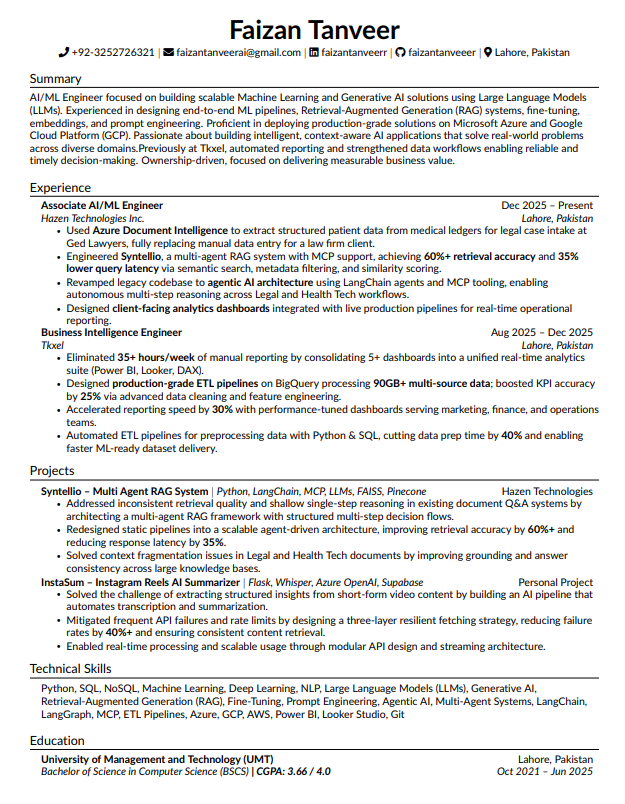
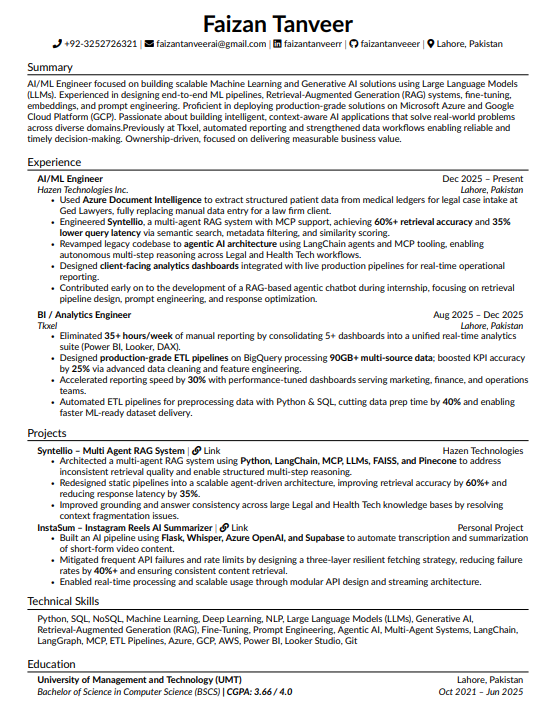
project links added

diff --git a/resume.tex b/resume.tex
@@ -32,8 +32,8 @@
 \addtolength{\oddsidemargin}{-0.5in}
 \addtolength{\evensidemargin}{-0.5in}
 \addtolength{\textwidth}{1in}
-\addtolength{\topmargin}{-.5in}
-\addtolength{\textheight}{1.0in}
+\addtolength{\topmargin}{-.7in}
+\addtolength{\textheight}{1.22in}
 
 \urlstyle{same}
 \raggedbottom
@@ -108,17 +108,18 @@ AI/ML Engineer focused on building scalable Machine Learning and Generative AI s
   \resumeSubHeadingListStart
 
     \resumeSubheading
-      {Associate AI/ML Engineer}{Dec 2025 -- Present}
-      {Hazen Technologies Inc.}{Lahore, Pakistan}
-      \resumeItemListStart
-        \resumeItem{Used \textbf{Azure Document Intelligence} to extract structured patient data from medical ledgers for legal case intake at Ged Lawyers, fully replacing manual data entry for a law firm client.}
-        \resumeItem{Engineered \textbf{Syntellio}, a multi-agent RAG system with MCP support, achieving \textbf{60\%+ retrieval accuracy} and \textbf{35\% lower query latency} via semantic search, metadata filtering, and similarity scoring.}
-        \resumeItem{Revamped legacy codebase to \textbf{agentic AI architecture} using LangChain agents and MCP tooling, enabling autonomous multi-step reasoning across Legal and Health Tech workflows.}
-        \resumeItem{Designed \textbf{client-facing analytics dashboards} integrated with live production pipelines for real-time operational reporting.}
-      \resumeItemListEnd
-
+  {AI/ML Engineer}{Dec 2025 -- Present}
+  {Hazen Technologies Inc.}{Lahore, Pakistan}
+  \resumeItemListStart
+    \resumeItem{Used \textbf{Azure Document Intelligence} to extract structured patient data from medical ledgers for legal case intake at Ged Lawyers, fully replacing manual data entry for a law firm client.}
+    \resumeItem{Engineered \textbf{Syntellio}, a multi-agent RAG system with MCP support, achieving \textbf{60\%+ retrieval accuracy} and \textbf{35\% lower query latency} via semantic search, metadata filtering, and similarity scoring.}
+    \resumeItem{Revamped legacy codebase to \textbf{agentic AI architecture} using LangChain agents and MCP tooling, enabling autonomous multi-step reasoning across Legal and Health Tech workflows.}
+    \resumeItem{Designed \textbf{client-facing analytics dashboards} integrated with live production pipelines for real-time operational reporting.}
+    \resumeItem{Contributed early on to the development of a RAG-based agentic chatbot during internship, focusing on retrieval pipeline design, prompt engineering, and response optimization.}
+  \resumeItemListEnd
+\vspace{6pt}
     \resumeSubheading
-      {Business Intelligence Engineer}{Aug 2025 -- Dec 2025}
+      {BI / Analytics Engineer}{Aug 2025 -- Dec 2025}
       {Tkxel}{Lahore, Pakistan}
       \resumeItemListStart
         \resumeItem{Eliminated \textbf{35+ hours/week} of manual reporting by consolidating 5+ dashboards into a unified real-time analytics suite (Power BI, Looker, DAX).}
@@ -132,19 +133,18 @@ AI/ML Engineer focused on building scalable Machine Learning and Generative AI s
 %-----------PROJECTS-----------
 \section{Projects}
 \resumeSubHeadingListStart
-
 \resumeProjectHeading
-{\textbf{Syntellio~--~Multi Agent RAG System} $|$ \emph{Python, LangChain, MCP, LLMs, FAISS, Pinecone}}{Hazen Technologies}
+{\textbf{Syntellio -- Multi Agent RAG System} $|$ \href{<YOUR_LINK_HERE>}{\faLink\ Link}}{Hazen Technologies}
 \resumeItemListStart
-\resumeItem{Addressed inconsistent retrieval quality and shallow single-step reasoning in existing document Q\&A systems by architecting a multi-agent RAG framework with structured multi-step decision flows.}
+\resumeItem{Architected a multi-agent RAG system using \textbf{Python, LangChain, MCP, LLMs, FAISS, and Pinecone} to address inconsistent retrieval quality and enable structured multi-step reasoning.}
 \resumeItem{Redesigned static pipelines into a scalable agent-driven architecture, improving retrieval accuracy by \textbf{60\%+} and reducing response latency by \textbf{35\%}.}
-\resumeItem{Solved context fragmentation issues in Legal and Health Tech documents by improving grounding and answer consistency across large knowledge bases.}
+\resumeItem{Improved grounding and answer consistency across large Legal and Health Tech knowledge bases by resolving context fragmentation issues.}
 \resumeItemListEnd
 
 \resumeProjectHeading
-{\textbf{InstaSum~--~Instagram Reels AI Summarizer} $|$ \emph{Flask, Whisper, Azure OpenAI, Supabase}}{Personal Project}
+{\textbf{InstaSum -- Instagram Reels AI Summarizer} $|$ \href{https://github.com/faizantanveeer/InstaSum}{\faLink\ Link}}{Personal Project}
 \resumeItemListStart
-\resumeItem{Solved the challenge of extracting structured insights from short-form video content by building an AI pipeline that automates transcription and summarization.}
+\resumeItem{Built an AI pipeline using \textbf{Flask, Whisper, Azure OpenAI, and Supabase} to automate transcription and summarization of short-form video content.}
 \resumeItem{Mitigated frequent API failures and rate limits by designing a three-layer resilient fetching strategy, reducing failure rates by \textbf{40\%+} and ensuring consistent content retrieval.}
 \resumeItem{Enabled real-time processing and scalable usage through modular API design and streaming architecture.}
 \resumeItemListEnd
